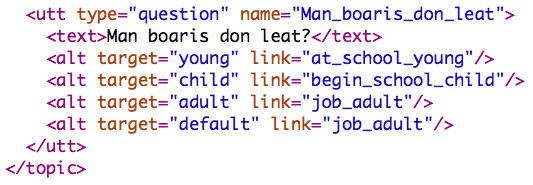
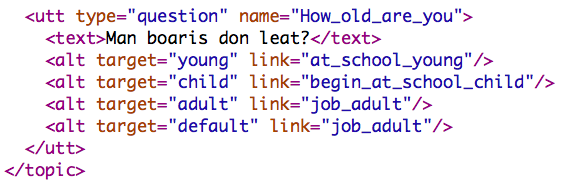
Improvements. Not finished yet.

Changed region(s): [[0.06, 0.2703, 0.9906, 0.7297], [0.03, 0.027, 0.9606, 0.2432], [0.0, 0.7297, 0.1801, 0.9459]]

diff --git a/art/workshop09_article.tex b/art/workshop09_article.tex
@@ -3,6 +3,7 @@
 \usepackage{times}
 \usepackage{url}
 \usepackage{latexsym}
+\usepackage{linguex}
 
 \setlength{\intextsep}{1ex}
 
@@ -72,6 +73,8 @@ Our leading idea was to utilize the existing analyser for Sámi when developing 
 
 Sámi is a language with complex morphology, and it demands much practising before the student reaches necessary skills. But as a minority language Sámi does not everywhere provide enough opportunities to practise the language in a natural way. There is also a lack of teaching materials. Because of that, programs accessible on the Internet may be a supplement to the instruction given at school or in university. 
 
+In the following section we describe how the system works -- generating of questions for \textit{Vasta} and analysis of user's input in \textit{Vasta} and \textit{Sahka}. Section 3 shows how CG is used for navigation in the dialogues in \textit{Sahka}, and section 4 is about how the tutorial feedback is given with help of CG rules. In section 5 we present some evaluation of how the system works in real life. The last sections are aobut future perspectives and a conclusion.
+
 \section{The system}
 \subsection{Basic grammatical analysis}
 The basic grammatical analysis of North Sámi is done with fst and a constraint grammar parser made at UiT. The relevant resources are the following:
@@ -86,7 +89,7 @@ The CG parser framework shows extraordinary results for free-text parsing, and V
 \subsection{Sentence generator}
 The question-answer drill \textit{Vasta} has randomly chosen questions, yes/no-questions and wh-questions. In order to be able to create a large number of potential tasks, we implemented a sentence generator. With the generator we can easily offer variation to the user, instead of tailoring every task with ready-made questions.
 
-The matrix contains two types of elements: constants and grammatical units for words selected from the pedagogical lexicon, constrained by semantic sets. The pedagogical lexicon forms a collection of about 2400 words that are considered relevant for the learners of North Sámi in schools and universities. The dialectal variation is taken into account in the lexicon as well as in the morphological generator, so the user can choose eastern or western dialect for the tasks. The sentence generator handles agreement e.g. between subject and the main verb. 
+The matrix contains two types of elements: constants and grammatical units for words selected from the pedagogical lexicon, constrained by semantic sets. The pedagogical lexicon forms a collection of about 2400 words that are considered relevant for the learners of North Sámi in schools and universities. The dialectal variation is taken into account in the lexicon as well as in the morphological generator, so the user can choose eastern or western dialect for the tasks. The sentence generator handles agreement e.g. between subject and the main verb. \\ 
 
 \begin{figure}[htbp]
 \begin{center}
@@ -115,7 +118,7 @@ The system question and user answer pairs are merged, and given to the analyser 
 
 \begin{figure}[htbp]
 \begin{center}
-\scalebox{.40}[.40]{\includegraphics{presentation/img/qa2.pdf}}\\
+\scalebox{.45}[.45]{\includegraphics{presentation/img/qa2.pdf}}\\
 \caption{Schematical view of the process.}
 %\label{nounlex}
 \end{center}
@@ -127,22 +130,25 @@ In the \textit{Sahka} dialogues the user may exercise Sámi in a quite natural w
 
 The questions in the dialogues are not generated, but written. Every question has its own unique name, so we can link to it from another questions, and it is also possible to make a CG-rule for specific questions.  
 
-To show how it works, we can jump into a dialogue in \textit{Sahka}. In Figure \ref{sahka} the setting is visiting a friend who has moved into a new flat, and she needs a helping hand with moving the furniture into the rooms. We have come to the third question – and the user gets tutorial feedback as well as that the navigation in the dialogue is due to the answer. In Figure \ref{hivssetanalysis} the analysis assigns both grammatical error tag  and navigation tag to the question-answer pair. The rule for the navigation tag is shown in Figure \ref{hivssettag}. This is a rule for the question with id 'gosa\_bidjat\_TV' if the answer is 'toilet'. The barrier is negation verb and words from a semantic set of rooms.
+To show how it works, we can jump into a dialogue in \textit{Sahka}. In Figure \ref{sahka} the setting is visiting a friend who has moved into a new flat, and she needs a helping hand with moving the furniture into the rooms. We have come to the third question and the navigation in the dialogue is due to the answer. In Figure \ref{hivssetanalysis} the analysis assigns two navigation tags to the question-answer pair. The rule for the navigation tag \textit{\&dia-hivsset} is shown in Figure \ref{hivssettag}. The rule for the navigation tag \textit{\&dia-hivsset} is: \\
+MAP (\&dia-hivsset) TARGET QDL IF \\(0 (where\_place\_TV))\\(*1 ("hivsset") BARRIER Neg OR ROOMS) ; 
+
+This special rule for the question with id \textit{where\_place\_TV} adds the tag if the answer contains \textit{hivsset} (toilet). The barrier is negation verb and words from the semantic set of rooms. \\
  
 
-\begin{figure*}[htbp]
+\begin{figure}[htbp]
 \begin{center}
-\scalebox{.55}[.55]{\includegraphics{presentation/img/TVhivssegis.png}}\\
-\caption{From \textit{Sahka}. ("In which room should we place the TV?" "We should place it in the toilet.")
+\scalebox{.35}[.35]{\includegraphics{presentation/img/TVhivssegii.png}}\\
+\caption{From \textit{Sahka}. ("In which room should we place the TV?" "We should place it in the toilet." "That is not a good idea. Make a new try.")
 }
 \label{sahka}
 \end{center}
-\end{figure*}
+\end{figure}
 
 
 \begin{figure}[htbp]
 \begin{center}
-\scalebox{.40}[.40]{\includegraphics{presentation/img/hivssegisCGanal.png}}\\
+\scalebox{.40}[.40]{\includegraphics{presentation/img/hivssegiiCGanal.png}}\\
 \caption{Assignment of tags is done together with the disambiguation.}
 \label{hivssetanalysis}
 \end{center}
@@ -150,7 +156,7 @@ To show how it works, we can jump into a dialogue in \textit{Sahka}. In Figure \
 
 \begin{figure}[htbp]
 \begin{center}
-\scalebox{.35}[.35]{\includegraphics{presentation/img/hivsset_tag.png}}\\
+\scalebox{.45}[.45]{\includegraphics{presentation/img/hivssetrule.png}}\\
 \caption{Rule for assignment of navigation tag.}
 \label{hivssettag}
 \end{center}
@@ -160,14 +166,14 @@ To show how it works, we can jump into a dialogue in \textit{Sahka}. In Figure \
 
 \begin{figure}[htbp]
 \begin{center}
-\scalebox{.5}[.5]{\includegraphics{presentation/img/gosabidjatTV.png}}\\
+\scalebox{.4}[.4]{\includegraphics{presentation/img/whereTV.png}}\\
 \caption{From the a dialogue file. ("In which room should we place the TV?" Alt. 'toilet': "That is not a good idea. Make a new try." Default: "We carry it there together.") 
 }
 \label{altlinks}
 \end{center}
 \end{figure}
 
-The choice of alternative links is dependent upon what kind of tag the question-answer pair gets. There will always be a default link in case there will not be any navigation tag. In Figure \ref{altlinks} there are two alternative links for the answers to the question. One of them is connected to the \&dia-hivsset tag and will give the answer “That is not a good idea. Make a new try.” The other link is default and leads to the next question in the dialogue. 
+The choice of alternative links is dependent upon what kind of tag the question-answer pair gets. There will always be a default link in case there will not be any navigation tag. In Figure \ref{altlinks} there are two alternative links for the answers to the question in Figure \ref{hivssetanalysis}. One of them is connected to the \textit{\&dia-hivsset} tag and will give the answer “That is not a good idea. Make a new try.” The other link is default and leads to the next question in the dialogue. 
 
 Many of the rules are general rules. Figure \ref{targettag} is a general target rule for question which require an answer in accusative. There are also general rules for tagging during analysis with information on whether the answer is interpreted as affirmative or negative, as in Figure \ref{afforneg}.
  
@@ -200,27 +206,24 @@ There are also special tags for information in the user's answer that should be 
 \end{center}
 \end{figure}
 
-To many yes/no-questions the user naturally gives more information. E.g. to the question 'Do you have children?', the student can answer 'Yes, I have two children.' It gives then a bad impression if the next question is 'How many children do you have?'. To prevent that we have a pass-tag for omitting the next question, as in Figure \ref{omit}.
+To many yes/no-questions the user naturally gives more information. E.g. to the question 'Do you have children?', the student can answer 'Yes, I have two children.' It gives then a bad impression if the next question is 'How many children do you have?'. To prevent that we have a pass-tag for omitting the next question it the answer contains a numeral, for the question with id \textit{do\_you\_have\_children}, as shown in Figure \ref{omit}.  
 
 \begin{figure}[htbp]
 \begin{center}
-\scalebox{.4}[.4]{\includegraphics{presentation/img/pass_rules.png}}\\
-\caption{Tag for omitting the next question it the answer contains a numeral, for the question 'Do you have children?'. 
-}
+\scalebox{.4}[.4]{\includegraphics{presentation/img/passchildren.png}}\\
+\caption{Rule for assigning tag for omitting the next question.}
 \label{omit}
 \end{center}
 \end{figure}
 
  
  
-Some dialogues are branched according to how the user answers, e.g. if the question is about having a car, a positive answer will navigate to a branch with follow-up questions. In Figure \ref{car} there are different follow-up questions for a car brand which is in the lexicon, and if it is not in the lexicon (is can e.g. be a spelling error or a joke from the user). There is also an alternative link for a negative answer, and the default leads to a comment which closes this topic.
-
-
+Some dialogues are branched according to how the user answers, e.g. in Figure \ref{car} there are different follow-up questions for the answer of "What kind of car do you have?" If the car brand is in the lexicon, the system picks up the car type and uses it the next question, e.g. 'Is Ford a good car?', and if it is not in the lexicon (is can e.g. be a spelling error or a joke from the user), the next question will be "Is it a car?". There is also an alternative link for a negative answer (Do you want to buy my car?), and the default leads to a comment which closes this topic. \\
 
 \begin{figure}[htbp]
 \begin{center}
 \scalebox{.35}[.35]{\includegraphics{presentation/img/what_car.png}}\\
-\caption{Alternative links due to the answer of 'What car do you have?' The system picks up the car type and uses it the next question, e.g. 'Is Ford a good car?'.}
+\caption{Alternative links due to the answer of 'What car do you have?'.}
 \label{car}
 \end{center}
 \end{figure}
@@ -232,8 +235,8 @@ In the same way an answer from the user about her age will induce a tag, which i
 
 \begin{figure}[htbp]
 \begin{center}
-\scalebox{.3}[.3]{\includegraphics{presentation/img/pickingage_colours.png}}\\
-\caption{The question is 'How old are you?'. With help of regular expression inside CG-rules, the age tag is assigned to the question-answer pair.}
+\scalebox{.36}[.36]{\includegraphics{presentation/img/agerules.png}}\\
+\caption{Rules with regular expressions.}
 \label{agerule}
 \end{center}
 \end{figure}
@@ -246,19 +249,33 @@ In the same way an answer from the user about her age will induce a tag, which i
 \end{center}
 \end{figure}
 
-Summary:
-\begin{itemize}
-\setlength{\itemsep}{-0.2cm}
-\item 
-\item 
-\end{itemize}
+Summary: With help of CG rules one can easily assign tags to the question-answer pair for navigating to the next question or to a special branch of the dialogue according to the containt of the answer. One can also assign a target tag to certain information so the system can collect name, car brand and so on, to use in a variabel in the follow up question.
+ 
+%There are navigation tags for
+%\begin{itemize}
+%\setlength{\itemsep}{-0.2cm}
+%\item affirmative and negative answer 
+%\item generell target-tag for the content of the answer
+%\item target tags for specific answers to spesific questions
+%\item omitting the next question
+%\item navigating to a special branch of the dialogue
+%\item colllecting information from the input 
+%\end{itemize}
 
 
 \section{Tutorial feedback} \label{tutorial}
-The system gives tutorial feedback about grammar errors, both in \textit{Vasta} and in \textit{Sahka}, generated from grammar error tags assigned in the disambiguation analysis, like in Figure \ref{hivssetanalysis}. It should be noted that the system uses the grammatical analyser on the fly, exploiting full lexicons. This allows the user's answer to contain any Sámi word, also words that are not restricted to the pedagogical lexicon.
+The system gives tutorial feedback about grammar errors, both in \textit{Vasta} and in \textit{Sahka}, generated from grammar error tags assigned in the disambiguation analysis. It should be noted that the system uses the grammatical analyser on the fly, exploiting full lexicons. This allows the user's answer to contain any Sámi word, also words that are not restricted to the pedagogical lexicon.
 
-\subsection{Grammar errors}
-In the question in Figure \ref{hivssetanalysis}, the systems asks “In which room should we place the TV?” The student answers 'Moai bidje TV hivssegis' ("We should place the TV in the toilet"), with locative 'hivssegis' rather than the correct illative 'hivssegii'. The CG parser disambiguates the input, and the general CG rule below adds a grammar-error-tag (\&grm-missing-Ill) to the sentence analysis triggered by the interrogative pronoun followed by a noun in illative, which demands an illative in the answer, when there is not illative or adverb with illative interpretation or negative verb in the first sentence of the answer, cfr. Figure \ref{missingill}.  
+\subsection{Grammar errors} \label{grammarerrors}
+In the question in Figure \ref{hivssetloc}, the systems asks “In which room should we place the TV?” The user answers 'Moai bidje TV gievkkanis' ("We should place the TV in the kitchen"), with locative 'gievkkanis' rather than the correct illative 'gievkkanii'. The CG parser disambiguates the input, and the general CG rule below adds a grammar-error-tag \textit{\&grm-missing-Ill} to the sentence analysis triggered by the interrogative pronoun followed by a noun in illative, which demands an illative in the answer, when there is not illative or adverb with illative interpretation or negative verb in the answer, cfr. Figure \ref{missingill}.  
+
+\begin{figure}[htbp]
+\begin{center}
+\scalebox{.4}[.4]{\includegraphics{presentation/img/gievkkanisAnal.png}}\\
+\caption{A grammar error tag is assigned. }
+\label{hivssetloc}
+\end{center}
+\end{figure}
 
 
 \begin{figure}[htbp]
@@ -271,11 +288,11 @@ In the question in Figure \ref{hivssetanalysis}, the systems asks “In which ro
 
 One of the pedagogical goals behind the programs is that the user should exercise inflecting the finite verb correctly, so the main rule is that the user has to use a full sentence containing a finite verb. To prevent the user from avoiding the difficult verbs, she has to use the same verb as in the question. The CG-rule in Figure \ref{sameverb} controls the choice of verb for the answer, uses a regular expression-based tag (a so-called sticky tag). Pro-verbs get a special treatment, so that a question containing a pro-verb will accept any verb in the answer. There is also made exceptions for some questions and for auxiliary verbs.
 
-For some of the questions in the \textit{Sahka} dialogue the verb requirement is somewhat relaxed. E.g. the question "What is your name?" will more naturally be answered without a verb.  
+For some of the questions in the \textit{Sahka} dialogue the verb requirement is somewhat relaxed. E.g. the question "What is your name?" will more naturally be answered without a verb.  \\
 
 \begin{figure}[htbp]
 \begin{center}
-\scalebox{.3}[.3]{\includegraphics{presentation/img/verblemma.png}}\\
+\scalebox{.35}[.35]{\includegraphics{presentation/img/verblemma.png}}\\
 \caption{Rule for giving error tag it there is another finite verb in the answer than in the question.}
 \label{sameverb}
 \end{center}
@@ -320,7 +337,7 @@ A more difficult problem emerges when the spelling error gives rise to an uninte
 
 
 \subsection{Metacomments}
-The system gives also some metacomments to the user, like:
+In a way \textit{Sahka} program create an illusion of a natural dialogue. But there are some restrictions in the possible input from the user, so the system can analyse the input, and for pedagogical purposes. To solve that, the system can give some metacomments to the user, like:
 \begin{itemize}
 \setlength{\itemsep}{-0.2cm}
 \item "Answering \textit{I-don't-know} is too simple. Try again."
@@ -332,8 +349,8 @@ The system gives also some metacomments to the user, like:
 
 
 \section{Evaluation}
- 
-The system has identified an error in the user's input:
+The evaluation of \textit{Sahka} and \textit{Vasta} was done when the programs had been available on internet for three months. The user's input and the feedback from the system were logged for the last two weeks of the periode.  
+
 \begin{table}[htbp]
 \begin{tabular}{|l|c|c|c|}
 \hline 
@@ -358,33 +375,38 @@ wr. case after Num  & 1     & 1     & 50,0 \\
 \label{ruletypes}
 \end{table}
 
+As shown in Table \ref{ruletypes} not all of the rule types mentioned in \label{grammarerrors} have been in use in this period. These rule types have not been used: \\
 
-Which rules are not in use? Why? \\
--- agreement inside NP (except for numeral expressions) \\
--- PP: case of noun, pp based of the interrogative  \\
--- time expressions \\
--- particles according to word order \\
+\begin{itemize}
+\setlength{\itemsep}{-0.7cm}
+\item agreement inside NP (except for numeral expressions) \\
+\item PP: case of noun, pp based of the interrogative  \\
+\item time expressions \\
+\item particles according to word order \\
+\end{itemize}
+
+The reason is probably that the user does not write e.g. complex NP's or complex time expressions if she is not forced to do it. That is the price of a free input strategy. There
+is a program avaiable on internet \textit{e-tutor}, which is a program for teaching German to foreigners \cite{Heift:01,Heift:02}, at \url{http://e-tutor.org}. e-tutor gives very good feedback to student's errors, but the possible input is restricted so the user gets a number of lemmas from which she is to make a sentence. In this way the user is forced to also write more complex phraces. Figure \ref{etutor} shows an example from the program. \\
 
 \begin{figure}[htbp]
 \begin{center}
-\scalebox{.35}[.35]{\includegraphics{presentation/img/e-tutor.png}}\\
-\caption{An alternative to free input: http://e-tutor.org/}
-%\label{nounlex}
+\scalebox{.30}[.30]{\includegraphics{presentation/img/e-tutor.png}}\\
+\caption{An alternative to free input at http://e-tutor.org/}
+\label{etutor}
 \end{center}
 \end{figure}
- 
-Precision and recall
+
 \begin{table*}[htbp]
 %\caption{default}
 \begin{center}
 \begin{tabular}{|l|r|r|r|r||r|r|r|r|r|}
 \hline
-Error type	& tp		& fp		& tn		& fn	& prec	 & rec.	& acc.	& F-ms. \\
+Error type	& true pos.		& false pos.		& true neg.		& false neg.	& precision	 & recall	& accuracy	& F-ms. \\
 \hline
-Grammatical errors    &   641   &   234   &   769    &   7    &   0,73   &   0,99   &   0,85   &   0,84	  \\
-Semantical errors       &   805   &   69    &   764    &   12   &   0,92   &   0,99   &   0,95   &   0,95		  \\
-Orthographic errors      &   875   &   0     &   776    &   0    &   1      &   1      &   1      &   1					  \\
-Other errors     &   695   &   180   &   751    &   25   &   0,79   &   0,97   &   0,88   &   0,87	  \\
+Gramm. error    &   641   &   234   &   769    &   7    &   0,73   &   0,99   &   0,85   &   0,84	  \\
+Semant. error       &   805   &   69    &   764    &   12   &   0,92   &   0,99   &   0,95   &   0,95		  \\
+Orthogr. error      &   875   &   0     &   776    &   0    &   1      &   1      &   1      &   1					  \\
+Other error     &   695   &   180   &   751    &   25   &   0,79   &   0,97   &   0,88   &   0,87	  \\
 \hline
   &   3016  &   483   &   3060   &   44   &   0,86   &   0,98   &   0,92   &   0,92			  \\
 \hline
@@ -395,9 +417,17 @@ Other errors     &   695   &   180   &   751    &   25   &   0,79   &   0,97   &
 %\label{default}
 \end{table*}%
 
+Table \ref{errortypes} shows different kinds of error types the system has identified in the user's sentences, \textit{positives}. If it really is an error, then it is a \textit{true positive}, if not, then it is a \textit{negative positive}. It the system has found no error in a sentence, then it is a negative. It there nevertheless is an error, then it is a \textit{false negative}.
+
+We measured \textit{precision} (correctly identified errors/all diagnostised errors), \textit{recall} (correctly identified errors/all errors), and \textit{accuracy} (correct judgements/cases). For the error types we target, precision = 0.85, recall = 0.93, and accuracy = 0.89 (N=277). Better recall than precision indicates that very few errors slip through, at the price of erroneously identifying some correct forms as errors. In this pedagogical setting, a goal for future work is improving precision (avoiding erroneous error flagging).
+
+
+
+
+Breaking down the precision numbers on type of feedback, we get the picture below. Of 27 errouneous judgements, 16 were due to technical malfunction, 9 to wrong syntactical and 2 to wrong lexical analysis.
+
 The high recall compared to the somewhat lower precision indicates that the system is a bit too critical towards the students:
 It almost never lets through a (targeted) mistake, with the price of flagging some correct answers as errors.
- 
  
 
 \section{Future perspectives}
